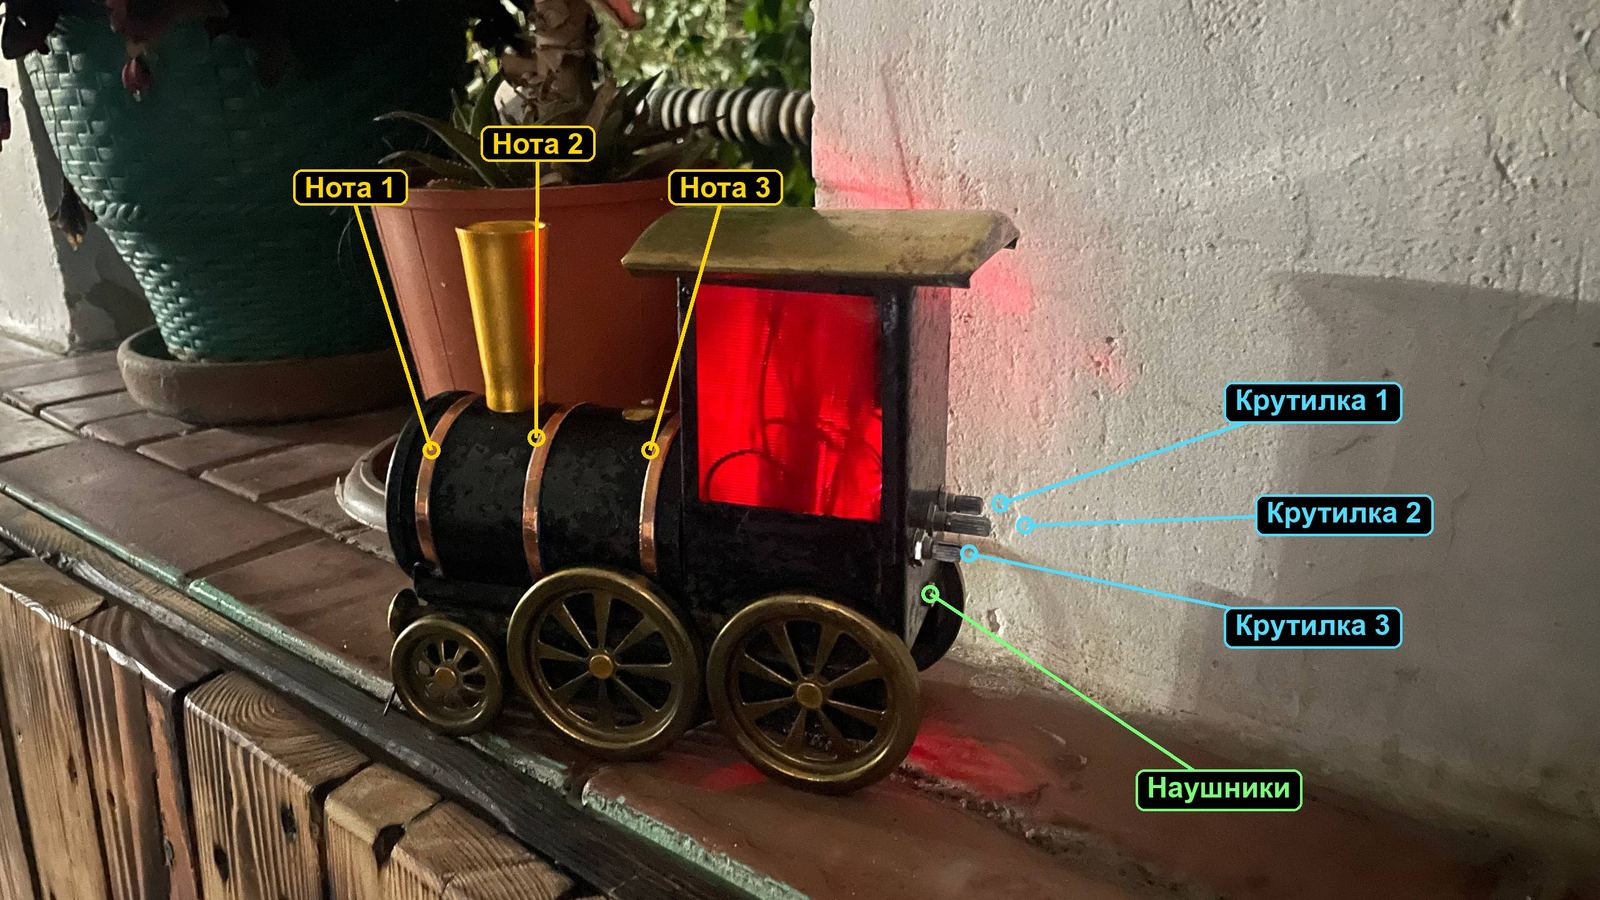
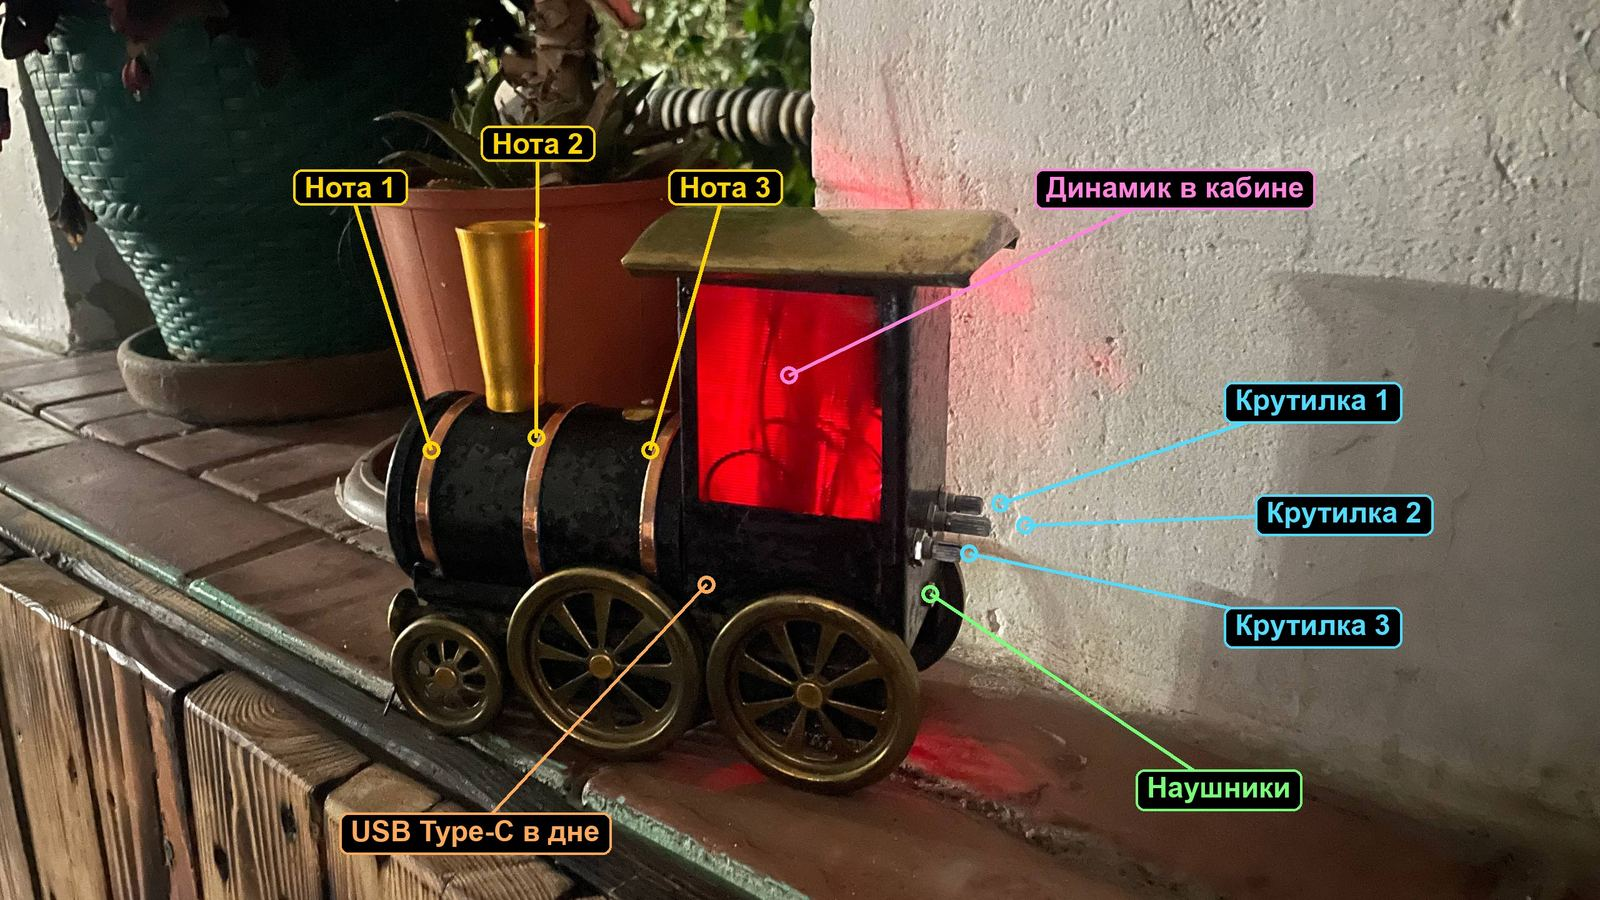
Паровоз: гнездо TKX3-3.5-05 — рисунок с ножками и чертёж; D9 напрямую на ножку 3; на фото динамик и USB Type-C

diff --git a/parovoz.html b/parovoz.html
@@ -111,6 +111,24 @@ code, .mono { font-family: var(--font-mono); font-size: .92em; }
 .scheme .e { text-anchor: end; }
 .scheme .t { font: 15px var(--font-display); fill: var(--on-loco); text-anchor: middle; }
 
+/* Гнездо: корпус и металл одного цвета в обеих темах */
+.jack { display: flex; flex-direction: column; gap: 12px; }
+.jack figure { margin: 0; background: var(--panel); border: 1px solid var(--line); border-radius: 6px; padding: 12px; display: flex; flex-direction: column; gap: 8px; }
+.jack figure svg, .jack figure img { display: block; width: 100%; height: auto; }
+.jack figure img { background: #fff; border-radius: 4px; max-width: 520px; }
+.jack figcaption { color: var(--muted); font-size: .9rem; }
+.jk-top { fill: #2b2f2d; stroke: #5a605d; stroke-width: 1.5; }
+.jk-front { fill: #1a1c1b; stroke: #5a605d; stroke-width: 1.5; }
+.jk-side { fill: #222524; stroke: #5a605d; stroke-width: 1.5; }
+.jk-metal { fill: #b9bdbb; stroke: #777; stroke-width: 1.5; }
+.jk-ring { fill: none; stroke: #888; stroke-width: 1.5; }
+.jk-hole { fill: #111; }
+.jk-pin { fill: #cfd3d1; stroke: #888; }
+.jk-lead { fill: none; stroke-width: 1.5; }
+.jk-lab { font: 600 14px var(--font-body); }
+.jk-on { stroke: var(--fg); fill: var(--fg); }
+.jk-off { stroke: var(--muted); fill: var(--muted); }
+
 .notes { display: grid; grid-template-columns: repeat(auto-fit, minmax(min(100%, 220px), 1fr)); gap: 12px; }
 .note { background: var(--panel); border: 1px solid var(--line); border-radius: 6px; padding: 14px 16px; display: flex; flex-direction: column; gap: 6px; }
 .note b { font-weight: 600; }
@@ -151,8 +169,8 @@ footer { color: var(--muted); font-size: .88rem; }
   </header>
 
   <figure class="photo">
-    <img src="img/parovoz_labels.jpg" width="1600" height="900" alt="Паровоз: три медные полоски на корпусе — ноты, три крутилки на задней стенке, внизу выход на наушники">
-    <figcaption>Полоски на корпусе — ноты, крутилки на задней стенке — ручки, внизу — выход на наушники. <a href="img/parovoz.jpg">Фото без подписей</a></figcaption>
+    <img src="img/parovoz_labels.jpg" width="1600" height="900" alt="Паровоз: три медные полоски на корпусе — ноты, три крутилки на задней стенке, внизу выход на наушники, динамик в кабине, USB Type-C в дне">
+    <figcaption>Полоски на корпусе — ноты, крутилки на задней стенке — ручки, внизу — выход на наушники. Динамик стоит в кабине, разъём питания USB Type-C — в дне. <a href="img/parovoz.jpg">Фото без подписей</a></figcaption>
   </figure>
 
   <section>
@@ -171,8 +189,8 @@ footer { color: var(--muted); font-size: .88rem; }
       <li><span class="pin">A3</span><div><div class="what">Материал <span class="kind">ручка</span></div><div class="how">Восемь положений, отношение частот модулятора к несущей: <span class="mono">1 · 2 · 3</span> — мягко и полое, как электропиано; <span class="mono">1.4 · 2.76 · 3.5</span> — колокол и колокольчики; <span class="mono">4.95 · 6.3</span> — гонг и металл.</div></div></li>
       <li><span class="pin">A4</span><div><div class="what">Глубина модуляции <span class="kind">ручка</span></div><div class="how">В нуле — чистый синус. На максимуме — резкий металлический удар.</div></div></li>
       <li><span class="pin">A0</span><div><div class="what">Светодиод <span class="kind">выход</span></div><div class="how">Второй ножкой к +5 В, поэтому горит при низком уровне. Светится, пока звенит удар.</div></div></li>
-      <li><span class="pin">D9</span><div><div class="what">Звук <span class="kind">выход</span></div><div class="how">ШИМ Mozzi, несущая около 32,8 кГц. Через резистор и конденсатор идёт на гнездо для наушников внизу задней стенки, а с него на усилитель PAM8403 и динамик 8 Ом. Если воткнуть наушники, звук пойдёт в них.</div></div></li>
-      <li><span class="pin">USB</span><div><div class="what">Питание <span class="kind">вход</span></div><div class="how">Разъём USB Type-C, торчит под паровозом.</div></div></li>
+      <li><span class="pin">D9</span><div><div class="what">Звук <span class="kind">выход</span></div><div class="how">ШИМ Mozzi, несущая около 32,8 кГц. Идёт напрямую на гнездо для наушников внизу задней стенки, а с него на усилитель PAM8403 и динамик 8 Ом в кабине. Если воткнуть наушники, звук пойдёт в них.</div></div></li>
+      <li><span class="pin">USB</span><div><div class="what">Питание <span class="kind">вход</span></div><div class="how">Разъём USB Type-C в дне паровоза.</div></div></li>
     </ul>
   </section>
 
@@ -180,7 +198,7 @@ footer { color: var(--muted); font-size: .88rem; }
     <h2>Электрическая схема</h2>
     <div class="scheme">
       <svg viewBox="0 0 760 650" role="img" aria-labelledby="schTitle">
-        <title id="schTitle">Схема паровоза: три сенсора через 1 МОм на +5 В к пинам A5–A7, три крутилки на A2–A4, белый светодиод через 270 Ом на A0, звук с D9 через 1 кОм и 10 мкФ на гнездо для наушников, а с его переключаемого контакта на усилитель PAM8403, питание от USB Type-C</title>
+        <title id="schTitle">Схема паровоза: три сенсора через 1 МОм на +5 В к пинам A5–A7, три крутилки на A2–A4, белый светодиод через 270 Ом на A0, звук с D9 на ножку 3 гнезда для наушников, а с ножки 4 на усилитель PAM8403, питание от USB Type-C</title>
 
         <!-- Arduino Nano -->
         <rect class="nano" x="30" y="230" width="700" height="80" rx="6"/>
@@ -255,27 +273,20 @@ footer { color: var(--muted); font-size: .88rem; }
           <text class="p" x="100" y="300">A0</text>
         </g>
 
-        <!-- Звук: D9 → 1 кОм → 10 мкФ → L и R гнезда; L′ → PAM8403 → динамик -->
+        <!-- Звук: D9 → ножка 3 гнезда; без штекера 3 замкнута с 4 → PAM8403 → динамик -->
         <g>
-          <path class="w" d="M230 310V470h30M310 470h32M342 452v36M354 452v36M354 470h31M385 470h35M385 470v50h35"/>
-          <rect class="part" x="260" y="463" width="50" height="14"/>
-          <circle class="dot" cx="385" cy="470" r="4"/>
-          <text class="v c" x="285" y="452">1 кОм</text>
-          <text class="v" x="328" y="450">+</text>
-          <text class="v c" x="348" y="508">10 мкФ</text>
+          <path class="w" d="M230 310V470h190"/>
           <text class="p" x="230" y="300">D9</text>
 
-          <!-- гнездо: L–L′ и R–R′ замкнуты, пока штекера нет -->
+          <!-- гнездо TKX3-3.5-05: 3–4 замкнуты, пока штекера нет -->
           <rect class="part" x="420" y="440" width="180" height="170" rx="6"/>
-          <path class="w" d="M420 470h48M470 470l82 11M600 470h-50v12M420 520h48M470 520l82 11M600 520h-50v12M420 580h50M420 580h-28v12M382 592h20M386 597h12M390 602h4"/>
+          <path class="w" d="M420 470h48M470 470l82 11M600 470h-50v12M420 580h50M420 580h-28v12M382 592h20M386 597h12M390 602h4"/>
           <circle class="dot" cx="470" cy="470" r="3"/>
-          <circle class="dot" cx="470" cy="520" r="3"/>
-          <text x="428" y="462">L <tspan class="v">· кончик</tspan></text>
-          <text x="428" y="512">R <tspan class="v">· кольцо</tspan></text>
-          <text x="428" y="572">GND <tspan class="v">· гильза</tspan></text>
-          <text class="e" x="592" y="462">L′</text>
-          <text class="e" x="592" y="512">R′</text>
-          <text class="c" x="510" y="430">гнездо 3,5 мм, 5 контактов</text>
+          <text x="428" y="462">3</text>
+          <text class="e" x="592" y="462">4</text>
+          <text class="v" x="428" y="530">2, 5 — не подключены</text>
+          <text x="428" y="572">1 <tspan class="v">· GND</tspan></text>
+          <text class="c" x="510" y="430">гнездо TKX3-3.5-05</text>
           <text class="v c" x="510" y="632">сюда наушники</text>
 
           <path class="w" d="M600 470h25M707 470h7"/>
@@ -301,9 +312,48 @@ footer { color: var(--muted); font-size: .88rem; }
       <div class="note"><b>Светодиод</b><span>Белый, через 270&nbsp;Ом от +5&nbsp;В к пину A0. Горит, когда на A0 низкий уровень.</span></div>
       <div class="note"><b>Сенсоры</b><span>Каждая медная полоска проводом идёт на свой пин, а пин через 1&nbsp;МОм на +5&nbsp;В. Палец тянет напряжение вниз.</span></div>
       <div class="note"><b>Крутилки</b><span>Крайние выводы на +5&nbsp;В и GND, средний на пин. Сейчас стоят две по 100&nbsp;кОм и одна на 1&nbsp;МОм, лучше все три по 10&nbsp;кОм: АЦП Arduino рассчитан на источник не больше 10&nbsp;кОм, с высокоомной ручкой показания плывут.</span></div>
-      <div class="note"><b>Гнездо для наушников</b><span>Пять контактов: L — кончик штекера, R — кольцо, GND — гильза и два переключаемых L′ и R′. Пока штекера нет, L замкнут с L′, и звук идёт на усилитель. Штекер отжимает пружину: усилитель отключается, звук идёт в наушники. Сигнал подаём сразу на L и R, чтобы играли оба уха.</span></div>
-      <div class="note"><b>Как найти ножки</b><span>Нумерация у разных гнёзд своя, поэтому прозвоните мультиметром. Без штекера две пары ножек звонятся между собой — это <span style="white-space:nowrap">L–L′</span> и <span style="white-space:nowrap">R–R′</span>. Вставьте штекер: пары разомкнутся, кончик штекера зазвонится с L, кольцо с R, основание с GND.</span></div>
-      <div class="note"><b>Резистор и конденсатор</b><span>1&nbsp;кОм ограничивает ток: наушники 32&nbsp;Ом прямо на D9 потянули бы больше 40&nbsp;мА, а это предел пина. Если в наушниках тихо, можно 470&nbsp;Ом. Конденсатор 10&nbsp;мкФ плюсом к Arduino не пускает в наушники постоянные 2,5&nbsp;В.</span></div>
+    </div>
+  </section>
+
+  <section>
+    <h2>Гнездо для наушников</h2>
+    <p>Обычное гнездо mini jack 3,5 мм на плату, TKX3-3.5-05, пять ножек. Внутри пружина: пока штекера нет, ножки 3 и 4 замкнуты, и звук с D9 проходит на усилитель. Штекер отжимает пружину, усилитель отключается, звук идёт в наушники.</p>
+    <div class="jack">
+      <figure>
+        <svg viewBox="0 0 700 370" role="img" aria-label="Гнездо TKX3-3.5-05 сверху: ножка 1 у входа — GND, ножка 3 посередине — D9, ножка 4 на углу — к усилителю, ножки 2 и 5 не подключены">
+          <polygon class="jk-side" points="320,265 494,175 494,255 320,345"/>
+          <polygon class="jk-front" points="200,190 320,265 320,345 200,270"/>
+          <polygon class="jk-top" points="200,190 374,100 494,175 320,265"/>
+          <polygon class="jk-metal" points="242,239 212,255 248,320 278,304"/>
+          <polygon class="jk-metal" points="255,303 255,306 255,308 254,310 254,312 253,314 252,316 251,317 249,319 248,320 246,320 244,321 243,321 241,321 239,321 236,320 234,319 232,318 230,317 228,316 225,314 223,312 221,310 219,308 217,305 215,303 213,300 212,297 210,294 209,291 208,288 207,285 206,282 205,280 205,277 204,274 204,271 204,269 205,266 205,264 206,262 207,260 208,258 209,257 210,256 212,255 213,254 215,253 217,253 219,253 221,253 223,254 225,255 228,256 230,257 232,259 234,260 236,262 239,264 241,267 243,269 244,272 246,274 248,277 249,280 251,283 252,286 253,289 254,292 254,295 255,298 255,300"/>
+          <polygon class="jk-ring" points="248,299 248,301 248,302 248,304 247,306 247,307 246,308 245,309 244,310 243,311 242,311 241,312 239,312 238,312 236,312 235,311 233,311 231,310 230,309 228,308 227,307 225,305 223,304 222,302 220,300 219,298 218,296 217,294 216,292 215,290 214,288 213,286 212,284 212,282 211,279 211,277 211,275 211,274 211,272 212,270 212,269 213,267 214,266 215,265 216,264 217,263 218,263 219,262 220,262 222,262 223,262 225,263 227,263 228,264 230,265 231,266 233,267 235,269 236,270 238,272 239,274 241,276 242,278 243,280 244,282 245,284 246,286 247,288 247,291 248,293 248,295 248,297"/>
+          <polygon class="jk-hole" points="240,293 240,295 240,295 240,296 239,297 239,298 239,299 238,299 238,300 237,300 236,300 236,301 235,301 234,301 233,301 232,300 232,300 231,300 230,299 229,299 228,298 227,297 226,296 226,295 225,294 224,293 223,292 223,291 222,290 221,289 221,288 221,286 220,285 220,284 220,283 220,282 220,281 220,280 220,279 220,278 220,277 221,276 221,276 221,275 222,275 223,274 223,274 224,274 225,274 226,274 226,274 227,274 228,274 229,275 230,275 231,276 232,276 232,277 233,278 234,279 235,280 236,281 236,282 237,283 238,284 238,285 239,287 239,288 239,289 240,290 240,291 240,292"/>
+          <path class="jk-pin" d="M367 115V79L372 73L377 79V115Z"/>
+          <path class="jk-lead jk-on" d="M372 73L434 31"/>
+          <text class="jk-lab jk-on" x="440" y="36">4 · к усилителю PAM8403</text>
+          <path class="jk-pin" d="M285 163V127L290 121L295 127V163Z"/>
+          <path class="jk-lead jk-off" d="M290 121L165 65"/>
+          <text class="jk-lab jk-off" x="20" y="70">5 · не подключена</text>
+          <path class="jk-pin" d="M389 190V154L394 148L399 154V190Z"/>
+          <path class="jk-lead jk-on" d="M394 148L534 135"/>
+          <text class="jk-lab jk-on" x="540" y="140">3 · D9</text>
+          <path class="jk-pin" d="M427 200V164L432 158L437 164V200Z"/>
+          <path class="jk-lead jk-off" d="M432 158L524 245"/>
+          <text class="jk-lab jk-off" x="530" y="250">2 · не подключена</text>
+          <path class="jk-pin" d="M276 217V181L281 175L286 181V217Z"/>
+          <path class="jk-lead jk-on" d="M281 175L103 155"/>
+          <text class="jk-lab jk-on" x="40" y="160">1 · GND</text>
+        </svg>
+        <figcaption>Вид сверху, как на фото. Номера ножек по чертежу.</figcaption>
+      </figure>
+      <figure>
+        <img src="img/tkx3-3.5-05.jpg" width="700" height="700" loading="lazy" alt="Чертёж гнезда TKX3-3.5-05: размеры и расположение ножек 1–5, сторона монтажа">
+        <figcaption>Чертёж TKX3-3.5-05, внизу — сторона монтажа (вид снизу, зеркально). Источник: <a href="https://deltachip.kz/p103088938-tkx3-audio-razem.html">deltachip.kz</a></figcaption>
+      </figure>
+    </div>
+    <div class="notes">
+      <div class="note"><b>Как подключено</b><span>Ножка 3 — D9, ножка 4 — вход PAM8403, ножка 1 — GND. Ножки 2 и 5 не подключены.</span></div>
+      <div class="note"><b>Если втыкать наушники</b><span>D9 идёт на гнездо напрямую. Наушники 32&nbsp;Ом потянут из пина больше 40&nbsp;мА, а это его предел. Безопаснее поставить между D9 и ножкой 3 резистор 470&nbsp;Ом – 1&nbsp;кОм и конденсатор 10&nbsp;мкФ плюсом к Arduino.</span></div>
     </div>
   </section>
 
@@ -312,7 +362,7 @@ footer { color: var(--muted); font-size: .88rem; }
     <p>Если в тишине слышен тихий плавающий свист около 1–2 кГц, это ультразвук ШИМ с выхода D9 перегружает вход усилителя. Ни сенсоры, ни ручки тут ни при чём, мы проверили каждый вход по очереди.</p>
     <div class="notes">
       <div class="note"><b>Убавить регулятор на PAM8403</b><span>Свист пропадает полностью, ноты остаются, только тише.</span></div>
-      <div class="note"><b>Поставить фильтр</b><span>После резистора 1 кОм поставить 33 нФ на землю, лучше два звена подряд. Тогда громкость можно поднять.</span></div>
+      <div class="note"><b>Поставить фильтр</b><span>D9 → 1 кОм → 33 нФ на землю перед гнездом, лучше два звена подряд. Тогда громкость можно поднять.</span></div>
       <div class="note"><b>Второй вход усилителя</b><span>Неиспользуемый канал PAM8403 соединить с землёй, а не оставлять в воздухе.</span></div>
     </div>
   </section>
